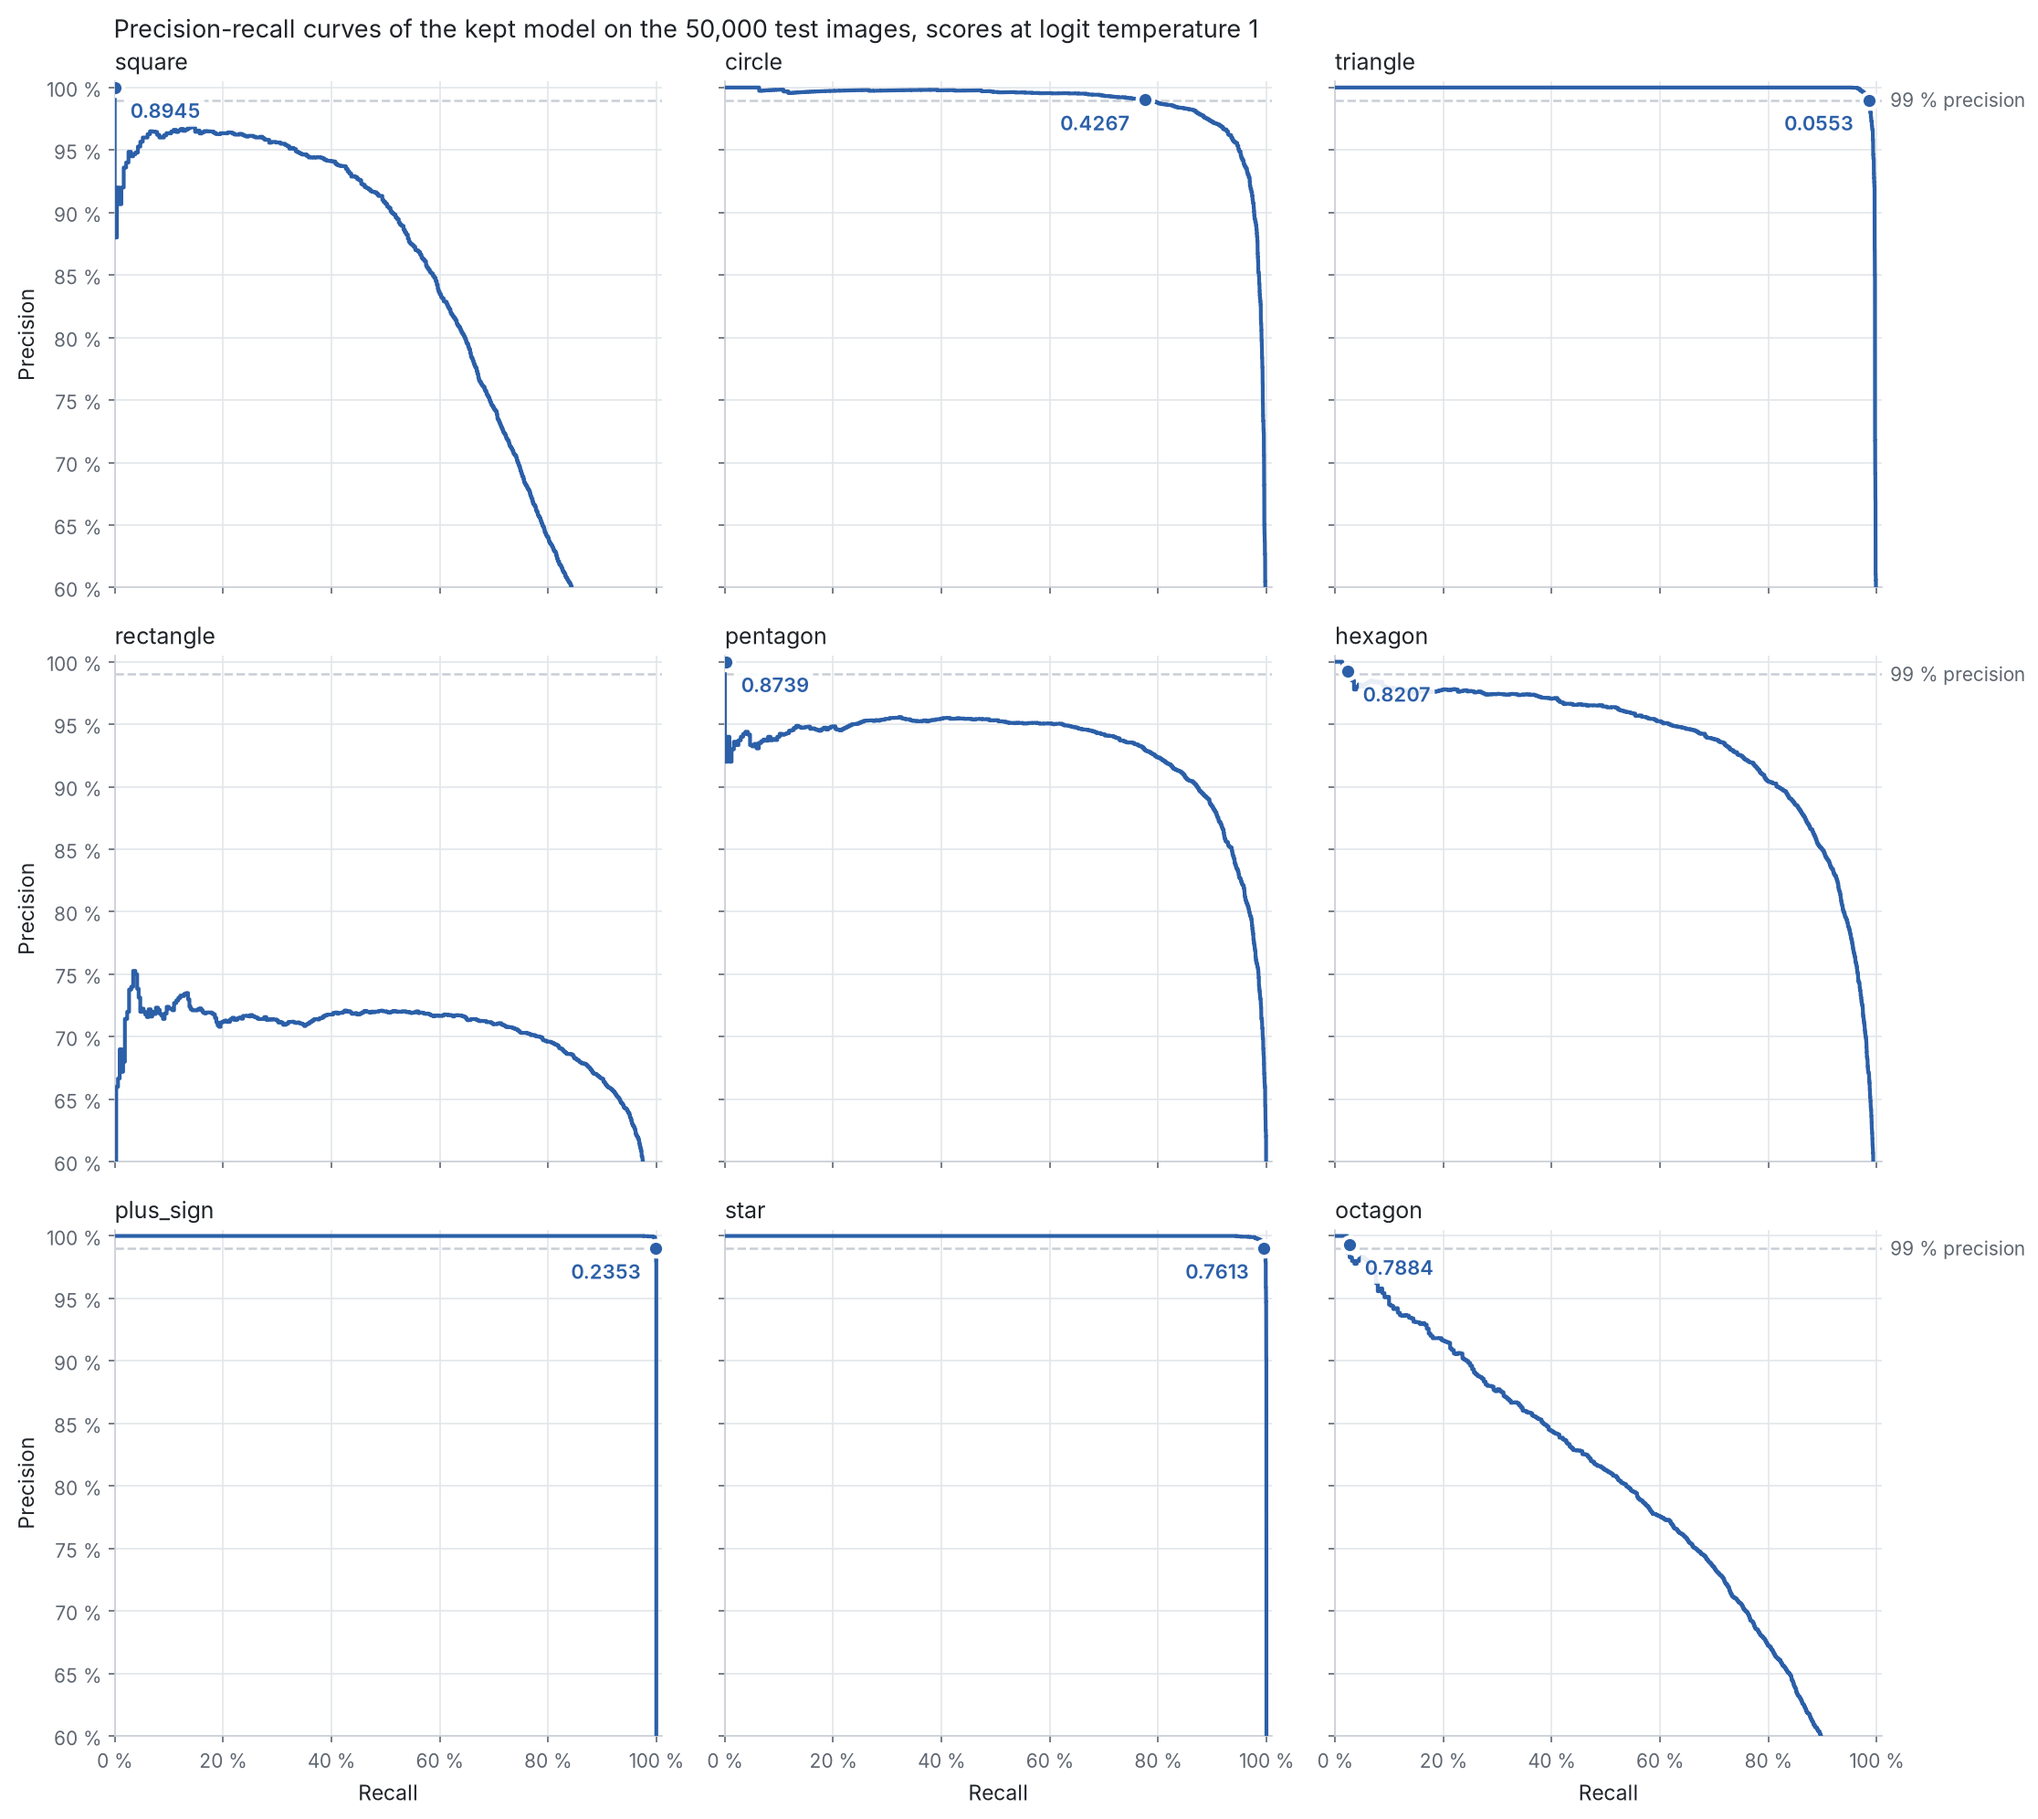
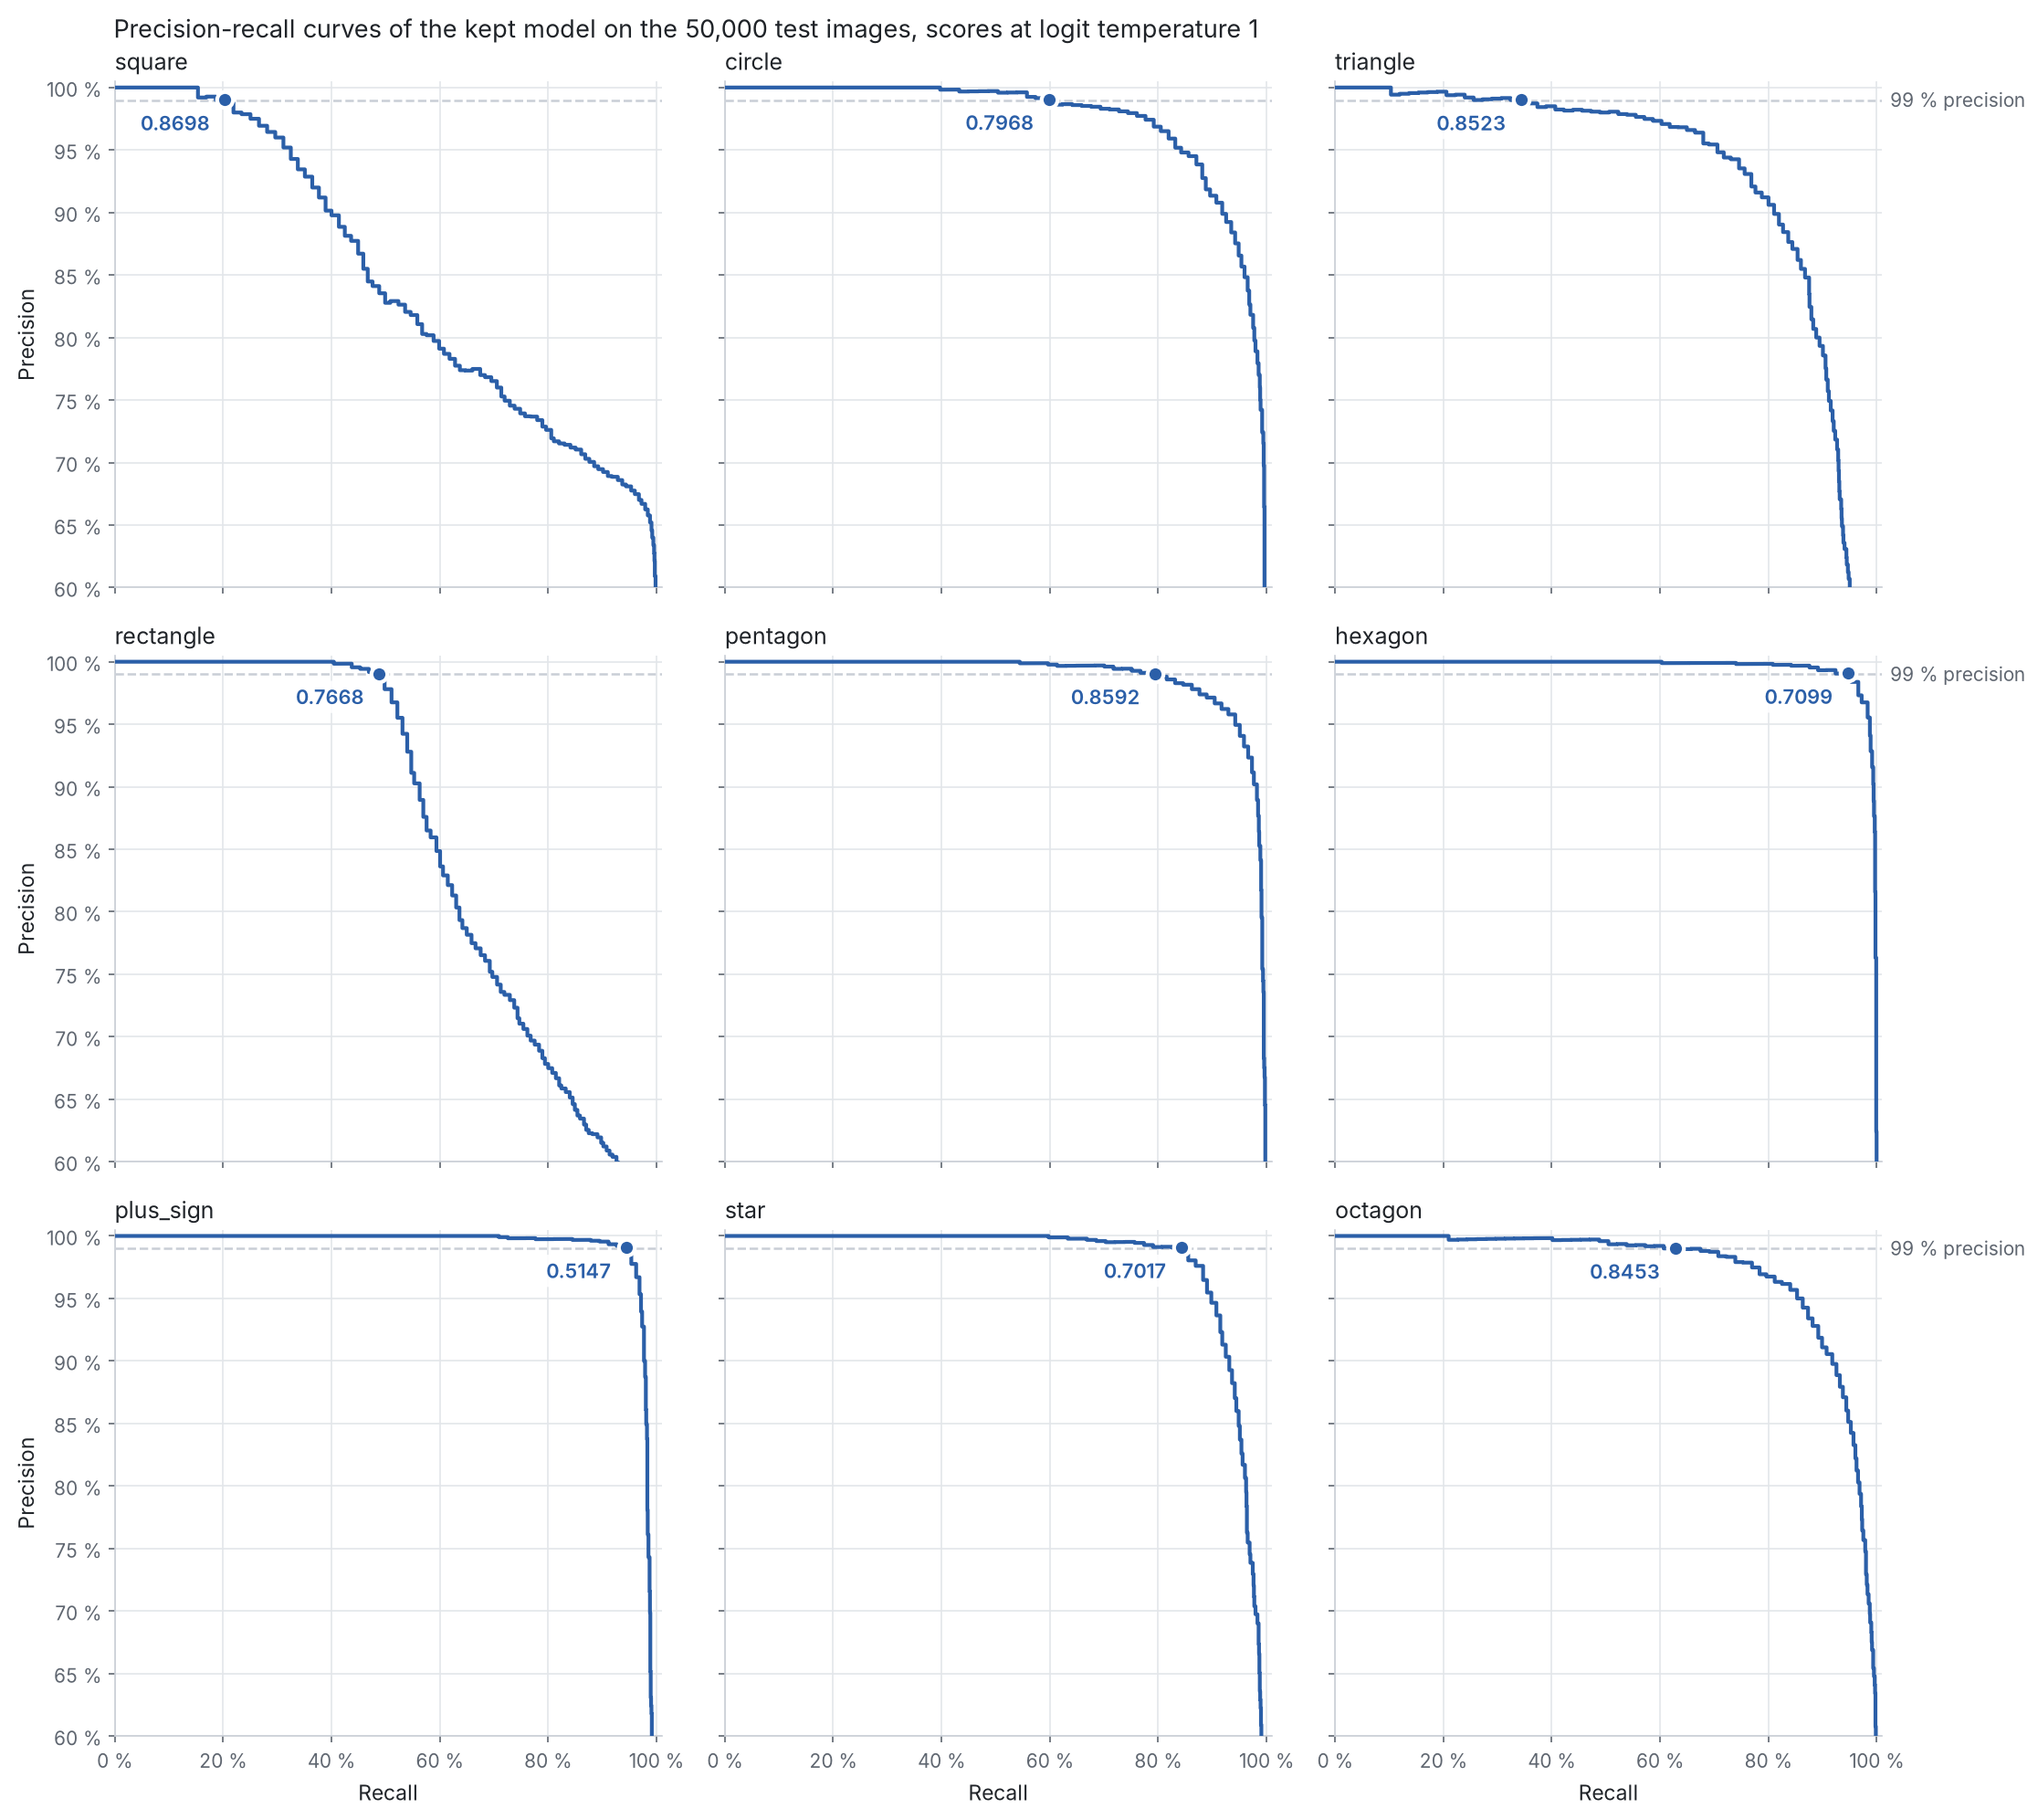
[DOCS] Take the README images of the README classifier again from its run retrained on the 35 classes of the regenerated synthetic shapes (CLS_..._B1x16.2x32.2x32.2x64.2x64.2x128-PT_HFLAT.128-HLN-CWB_MC35, from the 128-channel shape pre-trained backbone, 2000 iterations, accuracy 81.76 %, balanced a
Claude-Session: https://claude.ai/code/session_016uCt2XTu9R5KcJCjGynGL8

diff --git a/README.md b/README.md
@@ -209,6 +209,7 @@ At every evaluation it prints the report appended to `Results.txt` (with `evalua
 <p align="center">
   <img src="README/evaluation_report.png" width="100%" />
 </p>
+<p align="center"><em>The report of the synthetic shapes classifier of the README screenshots at iteration 2000, up to its per-class table of the 35 classes; the recall table with its intervals and the links to the files of the evaluation follow it.</em></p>
 
 TensorBoard holds `Train` and `Validation` (every iteration), `Test` (scalars and sample images at every evaluation) and `Test_EMA` (the averaged weights); open http://localhost:6006 after:
 
@@ -753,7 +754,7 @@ To find where a classifier fails, read its confusion matrix (percent of every tr
 <p align="center">
   <img src="README/evaluation_error_images.png" width="100%" />
 </p>
-<p align="center"><em>The confusion matrix and three error folders of the synthetic shapes classifier of the README screenshots, evaluated at iteration 1500.</em></p>
+<p align="center"><em>The confusion matrix of the 35 classes of the synthetic shapes classifier of the README screenshots, evaluated at iteration 2000 (accuracy 81.76 %), and the error folders of its three largest confusions: hollow parallelograms read as hollow trapezoids, trapezoids as parallelograms and rectangles as squares.</em></p>
 
 Should a research report need the figures of its kept classifier again, set the run, iteration and weights of the main block of `scripts/evaluation/draw_report_figures.py`, then run the command below. It writes into `Checkpoint_Evaluation/Iteration_<n>[/EMA]/Report_Figures/` the confusion matrix, the precision-recall curves at the temperature saved from the temperature explorer with the threshold of every target precision, the training curves with the kept checkpoint and, given a manifest of the group of every image (such as the camera or vehicle it comes from) and the `predictions.csv` of the evaluation, the balanced accuracy on the groups seen and never seen in training, with `report_values.json`, the numbers they show. Details: [tools reference](documentation/reference/tools_reference.md#drawing-the-figures-of-a-research-report).
 
@@ -768,7 +769,7 @@ uv run python -m scripts.evaluation.draw_report_figures
 <p align="center">
   <img src="README/report_training_curves.png" width="80%" />
 </p>
-<p align="center"><em>The precision-recall curves and the training curves drawn for the classifier above at iteration 1500: a dot marks the threshold reaching 99 % precision (none for rectangle, which never reaches it), at a logit temperature of 1 since no temperature was saved. The confusion matrix of the report is the one shown above; the chart of the groups needs a group manifest, which the synthetic shapes do not have.</em></p>
+<p align="center"><em>The precision-recall curves and the training curves drawn for the classifier above at iteration 2000 (test balanced accuracy 81.65 %), the curves shown for the first nine of its 35 classes (the script draws one panel per class): a dot marks the threshold reaching 99 % precision, reached by these nine and never by trapezoid, hollow parallelogram and hollow kite, at a logit temperature of 1 since no temperature was saved. The confusion matrix of the report is the one shown above; the chart of the groups needs a group manifest, which the synthetic shapes do not have.</em></p>
 
 ## Comparing Launches
 After the launches of a hyperparameter stage have trained, three scripts of `scripts/evaluation/` compare them:
@@ -804,7 +805,7 @@ uv run python -m scripts.embedding.cluster_image_embeddings
 <p align="center">
   <img src="README/embedding_clusters.png" width="100%" />
 </p>
-<p align="center"><em>A run on 720 synthetic shapes, one folder per shape: the clusters follow what the layer of the classifier separates, squares with rectangles and the four round shapes together.</em></p>
+<p align="center"><em>A run on 720 synthetic shapes, one folder for each of nine of the 35 classes: the clusters follow what the layer of the classifier separates, one cluster for each of six shapes, the stars split in two and the rectangles shared between a cluster of their own and the cluster of the squares.</em></p>
 
 Its settings and outputs: [tools reference](documentation/reference/tools_reference.md#clustering-image-embeddings).
 

diff --git a/documentation/reference/tools_reference.md b/documentation/reference/tools_reference.md
@@ -35,7 +35,7 @@ Whenever the checkpoints of a trained run must be judged again, on another split
 | `target_precisions` | the precision, or list of precisions such as `[0.99, 0.95, 0.90]` (CLS, M2O, M2M, CMP), targeted by the class thresholds, `None` keeping the `evaluation.target_precision` of the run; skipped with a warning for the tasks without class thresholds |
 | `nms_criterion`, `nms_distance_exponent` | the final NMS of a DET or INS run replaced, `"iou"` (greedy) or `"distance_iou"` (DIoU-NMS) with the exponent of its distance term, `None` keeping the run's; an NMS other than the run's is written to `<run>/Checkpoint_Evaluation_nms_<criterion>[_<exponent>]/` (e.g. `Checkpoint_Evaluation_nms_distance_iou_0.6`), and the setting is skipped with a warning for the tasks without detector |
 
-It writes `Results.txt`, `Tensorboard/Test` (and `Tensorboard/Test_EMA` for the averaged weights when the run kept a moving average), `training_configuration.yaml`, `label_dictionary.json`, `data.json` (its test split being the evaluated one) and one `Iteration_<n>/[EMA/]` folder per checkpoint, laid out as in the `Evaluation/` folder of the training, directly in `<run>/Checkpoint_Evaluation/`. Every evaluated checkpoint adds its row to `Checkpoint_Evaluation/evaluation_summary.csv` (the averaged weights in `ema_<scalar>` columns with their number of updates restored with the checkpoint in `ema_number_updates`, every rate between 0 and 1, the rows of the earlier launches into the folder kept, in increasing iteration order) and draws `Checkpoint_Evaluation/evaluation_curves.png` again, as during the training, the window of the moving average ending at the highest evaluated iteration ([Run Folder](training_reference.md#run-folder)). `iteration = "all"` evaluates every checkpoint, and the best of the evaluated iterations is printed for both weights, its value written like in the report: `Best Checkpoint : iteration 1500 (Accuracy 82.73 %)`, the headline metric of every task (`mAP@0.5/area` of DET, `Mean IoU` of SEG, `Hungarian Selection Accuracy` of SEL, ...) being a rate written as a percentage, except the effective rank of an SSL run without labelled test images, which keeps 4 decimals.
+It writes `Results.txt`, `Tensorboard/Test` (and `Tensorboard/Test_EMA` for the averaged weights when the run kept a moving average), `training_configuration.yaml`, `label_dictionary.json`, `data.json` (its test split being the evaluated one) and one `Iteration_<n>/[EMA/]` folder per checkpoint, laid out as in the `Evaluation/` folder of the training, directly in `<run>/Checkpoint_Evaluation/`. Every evaluated checkpoint adds its row to `Checkpoint_Evaluation/evaluation_summary.csv` (the averaged weights in `ema_<scalar>` columns with their number of updates restored with the checkpoint in `ema_number_updates`, every rate between 0 and 1, the rows of the earlier launches into the folder kept, in increasing iteration order) and draws `Checkpoint_Evaluation/evaluation_curves.png` again, as during the training, the window of the moving average ending at the highest evaluated iteration ([Run Folder](training_reference.md#run-folder)). `iteration = "all"` evaluates every checkpoint, and the best of the evaluated iterations is printed for both weights, its value written like in the report: `Best Checkpoint : iteration 2000 (Accuracy 81.76 %)`, the headline metric of every task (`mAP@0.5/area` of DET, `Mean IoU` of SEG, `Hungarian Selection Accuracy` of SEL, ...) being a rate written as a percentage, except the effective rank of an SSL run without labelled test images, which keeps 4 decimals.
 
 ### Logit Temperature
 A classifier trained with the cross entropy is often overconfident: its probabilities are squeezed against 0 and 1, and its thresholds at a high precision end up at 0.999 or above. Dividing the class logits by a temperature T above 1 before the softmax spreads them without changing the predicted class, so the accuracy and the confusion matrix stay the same. With two classes (or in multi-label mode) the recall at a target precision stays the same and only the threshold moves; with more classes it can move a little.

diff --git a/documentation/reference/tasks_reference.md b/documentation/reference/tasks_reference.md
@@ -117,7 +117,7 @@ Predicts the class of an image (`ClassificationHead.output_mode: "multi_class"`,
 - `predictions.csv` gives the probabilities with 9 significant digits, enough to find the thresholds of `class_thresholds.json` again.
 - The probabilities of the evaluation are the softmax of the logits, a temperature of 1 recorded as `logit_temperature` in `class_thresholds.json`. With `per_class_report`, `temperature_explorer.html` shows the score distribution of every class over its own images and the thresholds at temperatures from 0.5 to 10, and `class_logits.npz` keeps the logits next to it up to 100 classes; served by `scripts/evaluation/serve_temperature_explorer.py`, the page shows any temperature, its save button writes the thresholds of the chosen temperature to `saved_temperature_thresholds.json`, and its export button exports the classifier with them into `<run>/Exports/` (or the export reads them with `use_saved_temperature`, [tools reference](tools_reference.md#logit-temperature)).
 - The confusion matrix (`confusion_matrix.csv`; above 1,000 classes, `confusion_cells.csv` with one row `true_class,predicted_class,count` per non-zero cell and no image, the metrics staying the same), `predictions.csv` (`save_predictions`), and the misclassified images in `Errors/<TRUE>-TO-<PREDICTED>/` (`error_dumps`).
-- The rates a person reads are written as percentages with two decimals, e.g. `Accuracy 82.73 %`: the report, the console summary of the training (the accuracy, its change in percentage points, `+2.34 %`), the best checkpoint line of `evaluate_checkpoint.py`, the confusion matrix and curve images (axes from `0 %` to `100 %`), the temperature explorer and the target precisions of the headers and legends (`Recall @ P99 %`). The thresholds, probabilities, temperatures and losses keep their decimals, and `class_metrics.csv`, `class_thresholds.json`, `predictions.csv`, `evaluation_summary.csv`, TensorBoard and MLflow keep every rate between 0 and 1.
+- The rates a person reads are written as percentages with two decimals, e.g. `Accuracy 81.76 %`: the report, the console summary of the training (the accuracy, its change in percentage points, `+2.34 %`), the best checkpoint line of `evaluate_checkpoint.py`, the confusion matrix and curve images (axes from `0 %` to `100 %`), the temperature explorer and the target precisions of the headers and legends (`Recall @ P99 %`). The thresholds, probabilities, temperatures and losses keep their decimals, and `class_metrics.csv`, `class_thresholds.json`, `predictions.csv`, `evaluation_summary.csv`, TensorBoard and MLflow keep every rate between 0 and 1.
 
 ## Object Detection (DET)
 A two-stage detector. Every entry of `DetectionLevels` is a backbone level with its own anchors, region proposal head and detection head, which read the block directly or through a neck merging the levels. In training, the ground truth boxes are added to the proposals, so every object gives a positive proposal even when the region proposal network misses it.
